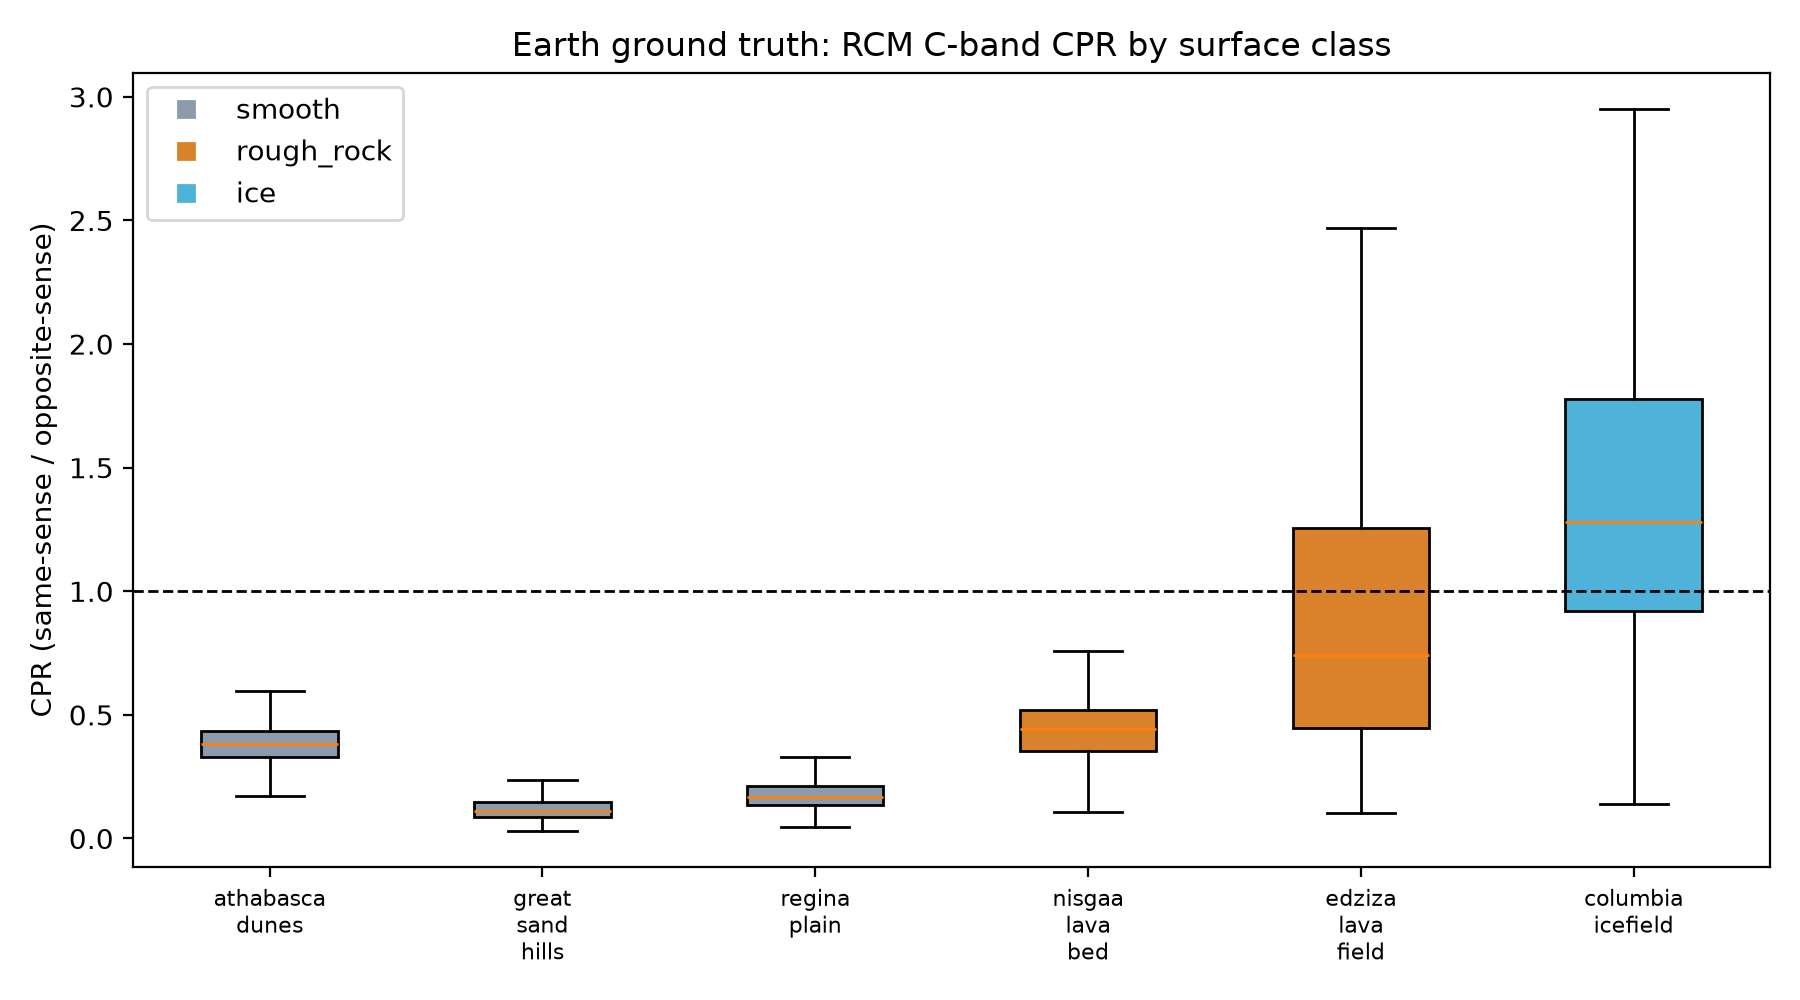
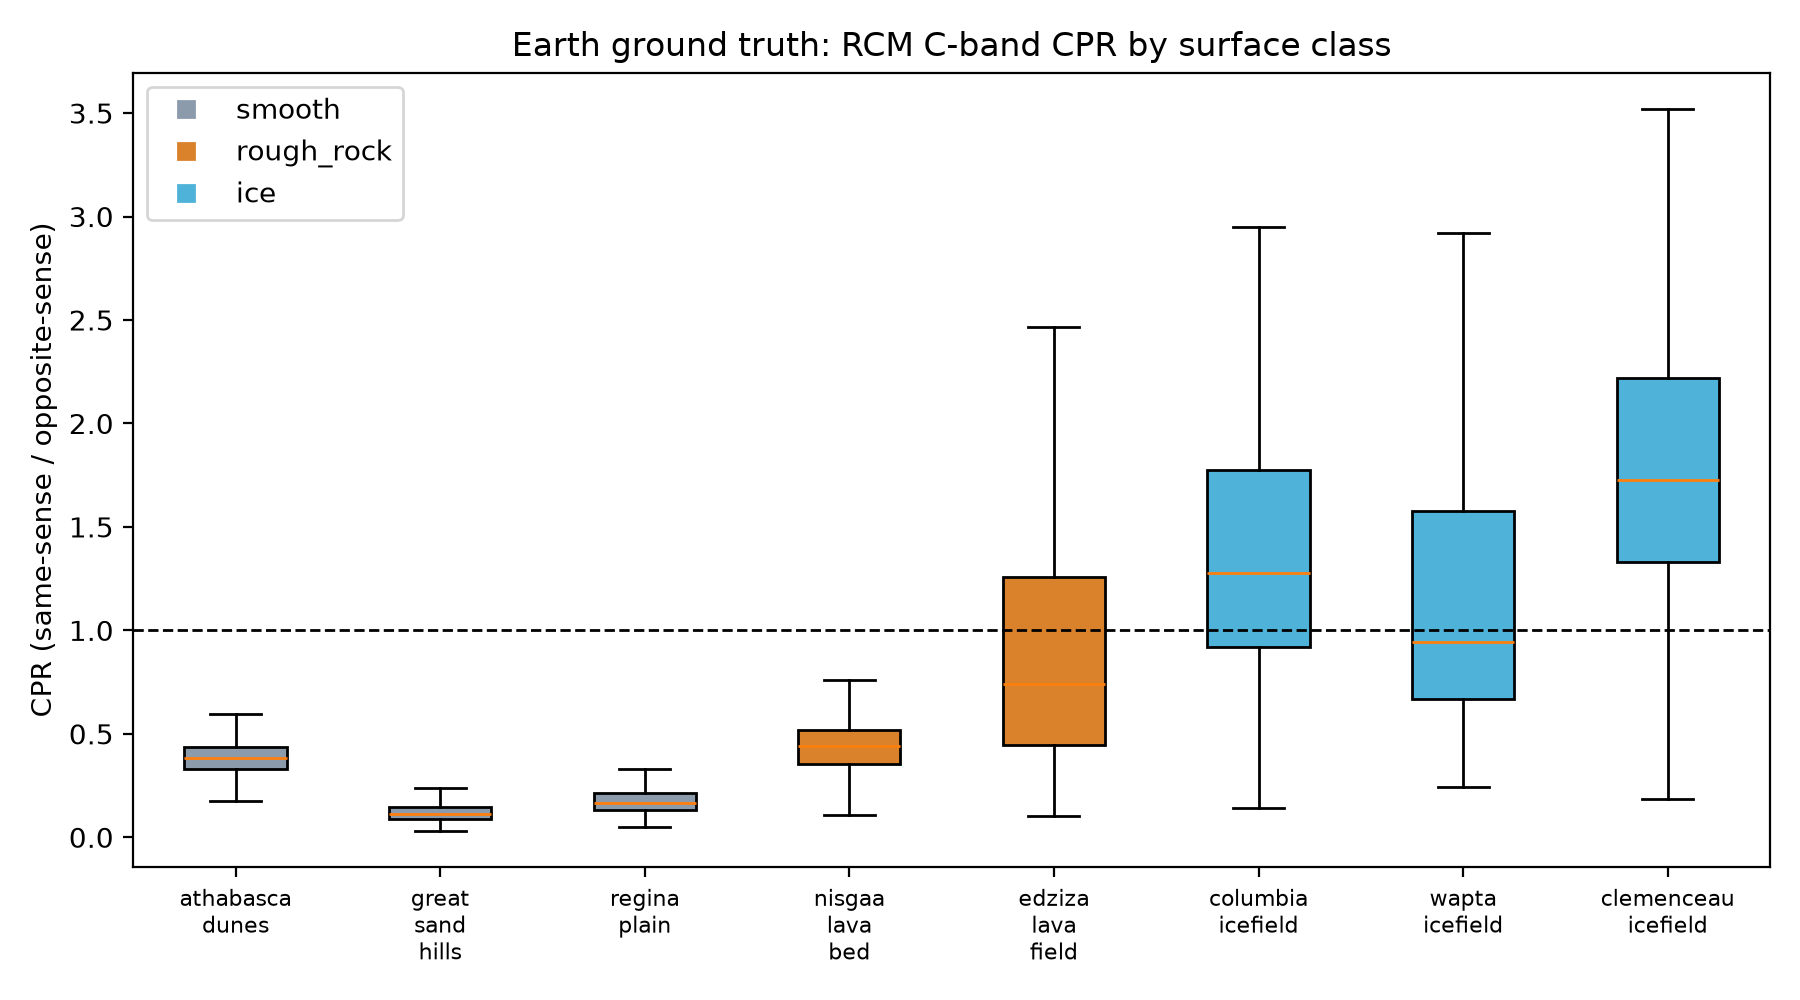
T1: add Wapta and Clemenceau icefields (CGNDB coordinates)

diff --git a/pipeline/01_earth_radar.py b/pipeline/01_earth_radar.py
@@ -30,6 +30,13 @@ SITES = {
     'athabasca_dunes':   ('smooth',    -108.75, 59.08, 0.02),
     'great_sand_hills':  ('smooth',    -109.30, 50.45, 0.02),
     'regina_plain':      ('smooth',    -104.60, 50.55, 0.02),
+    'wapta_icefield':    ('ice',       -116.5264, 51.6394, 0.015),
+    'clemenceau_icefield': ('ice',     -117.8000, 52.1833, 0.015),
+}
+CGNDB = 'https://geogratis.gc.ca/services/geoname/en/geonames/'
+COORD_SOURCES = {
+    'wapta_icefield': f'Canadian Geographical Names Database, NRCan ({CGNDB}JBCMN)',
+    'clemenceau_icefield': f'Canadian Geographical Names Database, NRCan ({CGNDB}JAREC)',
 }
 CLASSES = ['smooth', 'rough_rock', 'ice']
 COLORS = {'smooth': '#8C9BAB', 'rough_rock': '#D9822B', 'ice': '#4FB3D9'}
@@ -157,7 +164,9 @@ def main():
         date_range=DATE_RANGE, credit=CREDIT,
         source='RCM CEOS-ARD via EODMS STAC (collection rcm-ard), s3://rcm-ceos-ard',
         sites_without_usable_scene=sorted(set(SITES) - {r['site'] for r in results}),
-        sites=[dict(site=r['site'], cls=r['cls'], lon=r['lon'], lat=r['lat'], date=r['date'], scene=r['scene'],
+        sites=[dict(site=r['site'], cls=r['cls'], lon=r['lon'], lat=r['lat'],
+                    coord_source=COORD_SOURCES.get(r['site'], 'team selection, visually checked on satellite map'),
+                    date=r['date'], scene=r['scene'],
                     winter=r['winter'], inc_mean=r['inc_mean'], **r['stats'],
                     hist=np.histogram(np.clip(r['cpr'], 0, 2), bins=40, range=(0, 2))[0].tolist())
                for r in results],
